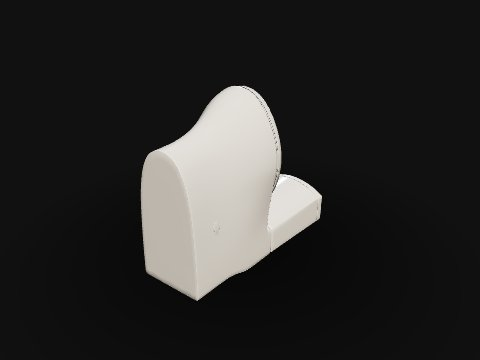
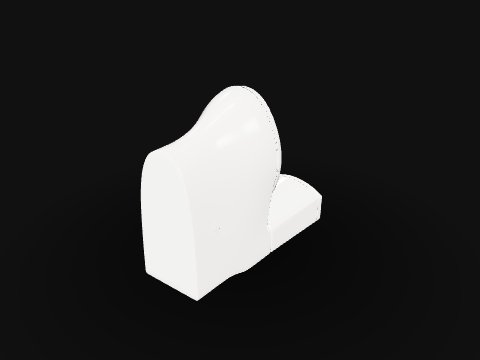
Gloss pass: nickel chrome, all-around env fill, contact shadows, exposure

Changed region(s): [[0.2812, 0.2139, 0.6875, 0.8556]]

diff --git a/src/app/design/3d/room3d.tsx b/src/app/design/3d/room3d.tsx
@@ -3,6 +3,7 @@ import { Suspense, useEffect, useMemo, useRef, useState } from "react";
 import * as THREE from "three";
 import { Canvas, useFrame, useThree } from "@react-three/fiber";
 import {
+  ContactShadows,
   Environment,
   Html,
   Lightformer,
@@ -55,13 +56,16 @@ function std(color: string, roughness: number) {
 
 function ceramic(color = CERAMIC) {
   return new THREE.MeshPhysicalMaterial({
-    color, roughness: 0.12, metalness: 0.0,
-    clearcoat: 1, clearcoatRoughness: 0.08,
+    color, roughness: 0.1, metalness: 0.0,
+    clearcoat: 1, clearcoatRoughness: 0.06,
+    envMapIntensity: 1.25, specularIntensity: 1,
   });
 }
 
 function chrome() {
-  return new THREE.MeshStandardMaterial({ color: "#d9d9d9", roughness: 0.15, metalness: 1 });
+  // polished nickel tuned for a dark room: mostly dielectric so key/rim
+  // lights model it directly, with enough metal for env streaks
+  return new THREE.MeshStandardMaterial({ color: "#e8e8e8", roughness: 0.3, metalness: 0.7, envMapIntensity: 1.5 });
 }
 
 function glassMat() {
@@ -236,7 +240,11 @@ function ModelPart({ opt, f }: { opt: ModelOption; f: MetreFixture }) {
   const { scene } = useGLTF(opt.glb);
   const mat = useMemo(() => {
     if (opt.fit === "head") return chrome();
-    if (opt.fit === "screen") return std("#2b2b2b", 0.55);
+    if (opt.fit === "screen") {
+      const m = std("#2b2b2b", 0.32);
+      m.envMapIntensity = 1.1;
+      return m;
+    }
     return ceramic();
   }, [opt.fit]);
   const obj = useMemo(() => {
@@ -344,6 +352,18 @@ function FixtureMesh({ f, labels, model }: { f: MetreFixture; labels: boolean; m
   ) : null;
   return (
     <group position={[f.cx, 0, f.cz]}>
+      {/* soft grounding shadow, re-baked whenever the model swaps */}
+      <ContactShadows
+        key={model}
+        position={[0, 0.008, 0]}
+        scale={[f.w + 1.2, f.d + 1.2]}
+        far={1.4}
+        resolution={256}
+        color="#000000"
+        opacity={0.7}
+        blur={2.2}
+        frames={2}
+      />
       {shower}
       {bathtub}
       {toilet}
@@ -436,6 +456,10 @@ function Scene({
         <Lightformer intensity={3.2} position={[0, 5, 0]} rotation-x={Math.PI / 2} scale={[9, 9, 1]} color="#ffffff" />
         <Lightformer intensity={1.1} position={[-5, 1, -1]} rotation-y={Math.PI / 2} scale={[6, 2, 1]} color={CREAM} />
         <Lightformer intensity={0.8} position={[5, 2, 2]} rotation-y={-Math.PI / 2} scale={[6, 3, 1]} color="#dfe4ee" />
+        {/* dim all-around cards so metals never sample pure black */}
+        <Lightformer intensity={0.35} position={[0, 2, -6]} scale={[10, 4, 1]} color="#cfd4de" />
+        <Lightformer intensity={0.35} position={[0, 2, 6]} rotation-y={Math.PI} scale={[10, 4, 1]} color="#cfd4de" />
+        <Lightformer intensity={0.25} position={[0, -2, 0]} rotation-x={-Math.PI / 2} scale={[8, 8, 1]} color="#8a8f99" />
       </Environment>
 
       {/* floor slab + tile inlay border */}
@@ -564,6 +588,7 @@ export default function RoomCanvas({
           dpr={[1, 2]}
           camera={{ position: [4.6, 3.8, 6.2], fov: 42 }}
           gl={{ antialias: true, localClippingEnabled: true }}
+          onCreated={({ gl }) => { gl.toneMappingExposure = 1.15; }}
         >
           <color attach="background" args={["#000000"]} />
           <Suspense fallback={null}>

diff --git a/tools/thumb.html b/tools/thumb.html
@@ -14,6 +14,7 @@
 <script type="module">
 import * as THREE from "three";
 import { GLTFLoader } from "three/addons/loaders/GLTFLoader.js";
+import { RoomEnvironment } from "three/addons/environments/RoomEnvironment.js";
 
 const q = new URLSearchParams(location.search);
 const file = q.get("m");
@@ -29,6 +30,12 @@ document.body.appendChild(renderer.domElement);
 
 const scene = new THREE.Scene();
 scene.background = new THREE.Color("#111111");
+// studio reflections so metals read (no HDR download — generated locally)
+{
+  const pmrem = new THREE.PMREMGenerator(renderer);
+  scene.environment = pmrem.fromScene(new RoomEnvironment(), 0.04).texture;
+  pmrem.dispose();
+}
 const camera = new THREE.PerspectiveCamera(38, 480 / 360, 0.01, 100);
 
 scene.add(new THREE.HemisphereLight("#ffffff", "#1a1a1a", 0.9));
@@ -50,7 +57,7 @@ function override(root) {
         color: "#e9e7e1", roughness: 0.12, clearcoat: 1, clearcoatRoughness: 0.08,
       });
     } else if (matKind === "chrome") {
-      c.material = new THREE.MeshStandardMaterial({ color: "#d9d9d9", roughness: 0.22, metalness: 1 });
+      c.material = new THREE.MeshStandardMaterial({ color: "#e6e6e6", roughness: 0.28, metalness: 0.85, envMapIntensity: 1.5 });
     } else {
       c.material = new THREE.MeshStandardMaterial({ color: "#2b2b2b", roughness: 0.5, metalness: 0.1 });
     }

diff --git a/PROGRESS.md b/PROGRESS.md
@@ -43,3 +43,4 @@
 - 2026-09-18: 3D viewer openings rebuilt from real scans — `assets/models/` door (0.91×2.07 m) + window OBJs → Draco GLBs `public/models/door.glb` (9.2 KB) + `window.glb` (1.9 KB) via `tools/obj_to_draco_glb.py` (single-primitive writer; obj2gltf emits 2152 prims on 3ds Max files). Viewer (SVG dollhouse) now draws panelled leaf + architrave + cream lever, framed 2×2 window + cream sill/apron, wall caps, skirting, floor inlay — monochrome per design.md. Build fix: `"type": "module"` (repo had trailing `"type": "commonjs"` from other device) + `turbopack.root` pin (stray `/Users/devraj/package.json` poisoned format detection); `npm run build` green, all 11 routes. Verified via Playwright screenshots (cutaway on/off).
 - 2026-09-18: three.js glossy viewer live — `three@0.186 + fiber@9.7 + drei@10.7.8` (`--legacy-peer-deps`: fiber caps React <19.3, repo has 19.3.0). New `room3d.tsx`: PBR clearcoat ceramic fixtures, chrome rain head, transmission shower glass, real door/window GLBs (plain 128/13 KB, no Draco decoder needed), Lightformer studio env (no network HDR), shadow-mapped warm key, orbit cutaway via clipping planes (front walls section at 1.1 m live while orbiting), HTML pill labels, same toolbar. SVG `scene.tsx` kept as no-WebGL fallback. Verified via screenshots; `npm run build` green. (Later same day: React 19.3.0→19.2.8 — fiber peer caps <19.3, Vercel strict install failed.)
 - 2026-09-18: Model swap tray in 3D view — `src/lib/models.ts` catalogue (7 scans: tub/toilets/seat/heads/door/panel with real dims + fit rules), thumbnails auto-rendered from GLBs (`tools/thumb.html + render_thumbs.cjs`, user replacing with own photos), per-fixture tray under canvas (Procedural + scan thumbs), choices persist into saved designs (`SavedFixture.model` + save-back button). Verified: toilet→75790 swap renders the real two-piece in-scene.
+- 2026-09-18: Gloss pass on swapped scans — ceramic clearcoat + envMapIntensity, polished-nickel (0.7 metal) instead of black mirror-metal for small chrome parts, all-around dim Lightformer cards so metals never sample black, per-fixture ContactShadows, exposure 1.15. Thumb pipeline gained RoomEnvironment (chrome thumbs were rendering black). Verified via swap screenshots.
